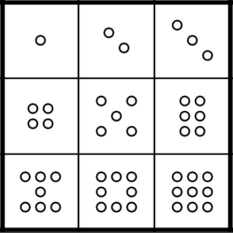
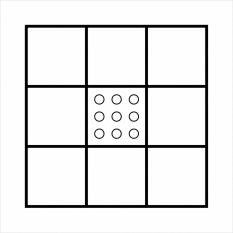
Add phantom dice drawing in UI.

Changed region(s): [[0.0, 0.0, 1.0, 1.0], [0.5107, 0.1803, 0.5708, 0.2403], [0.1502, 0.1502, 0.2103, 0.2103]]

diff --git a/src/Sudoku.Graphics.UI/MainWindow.xaml b/src/Sudoku.Graphics.UI/MainWindow.xaml
@@ -140,6 +140,30 @@
 				</c:ItemSelectorPanel>
 			</Border>
 		</Popup>
+		<Popup x:Name="PhantomDicePopup">
+			<Border Background="White" BorderBrush="Gray" BorderThickness="1" Padding="6">
+				<StackPanel>
+					<TextBlock
+						Text="{x:Static p:LocalizationResources.MainWindow_PhantomDiceSubgridSize}"
+						FontSize="18"
+						Margin="0,0,0,6" />
+					<c:IntegerBox
+						x:Name="PhantomDiceSubgridSizeBox"
+						Margin="0,0,0,6"
+						FontSize="18" />
+					<TextBlock
+						Text="{x:Static p:LocalizationResources.MainWindow_PhantomDiceStatesMatrix}"
+						FontSize="18"
+						Margin="0,0,0,6" />
+					<TextBlock
+						Text="{x:Static p:LocalizationResources.MainWindow_PhantomDiceStatesMatrix_Example}"
+						Foreground="DimGray"
+						Margin="0,0,0,6"
+						FontSize="18" />
+					<TextBox x:Name="PhantomDiceStatesMatrixBox" FontSize="18" />
+				</StackPanel>
+			</Border>
+		</Popup>
 		<!--#endregion-->
 
 		<!--

diff --git a/src/Sudoku.Graphics.UI/App.xaml b/src/Sudoku.Graphics.UI/App.xaml
@@ -19,6 +19,7 @@
 			</vm:ToolItemGroup>
 			<vm:ToolItemGroup Title="{x:Static p:LocalizationResources.ItemTypeGroup_CellMark}">
 				<vm:ToolItem ItemType="Cell_Dice" Icon="/Assets/ToolItems/ToolItem_Cell_Dice.png" />
+				<vm:ToolItem ItemType="Cell_PhantomDice" Icon="/Assets/ToolItems/ToolItem_Cell_PhantomDice.png" />
 				<vm:ToolItem ItemType="Cell_Tetris" Icon="/Assets/ToolItems/ToolItem_Cell_Tetris.png" />
 			</vm:ToolItemGroup>
 		</vm:ToolItemGroupCollection>

diff --git a/src/Sudoku.Graphics.UI/Properties/LocalizationResources.Designer.cs b/src/Sudoku.Graphics.UI/Properties/LocalizationResources.Designer.cs
@@ -61,6 +61,15 @@ namespace Sudoku.Graphics.UI.Properties {
         }
         
         /// <summary>
+        ///   Looks up a localized string similar to ,;，；、.
+        /// </summary>
+        public static string _ValidSeparators {
+            get {
+                return ResourceManager.GetString("_ValidSeparators", resourceCulture);
+            }
+        }
+        
+        /// <summary>
         ///   Looks up a localized string similar to Author:.
         /// </summary>
         public static string AboutWindow_Author {
@@ -304,11 +313,20 @@ namespace Sudoku.Graphics.UI.Properties {
         }
         
         /// <summary>
-        ///   Looks up a localized string similar to Dice.
+        ///   Looks up a localized string similar to Dice (Classic).
         /// </summary>
         public static string ItemType_Cell_Dice {
             get {
                 return ResourceManager.GetString("ItemType_Cell_Dice", resourceCulture);
+            }
+        }
+        
+        /// <summary>
+        ///   Looks up a localized string similar to Dice (Matrix).
+        /// </summary>
+        public static string ItemType_Cell_PhantomDice {
+            get {
+                return ResourceManager.GetString("ItemType_Cell_PhantomDice", resourceCulture);
             }
         }
         
@@ -471,6 +489,33 @@ namespace Sudoku.Graphics.UI.Properties {
         public static string MainWindow_MenuItem_Title {
             get {
                 return ResourceManager.GetString("MainWindow_MenuItem_Title", resourceCulture);
+            }
+        }
+        
+        /// <summary>
+        ///   Looks up a localized string similar to States (1 for on, 0 for off):.
+        /// </summary>
+        public static string MainWindow_PhantomDiceStatesMatrix {
+            get {
+                return ResourceManager.GetString("MainWindow_PhantomDiceStatesMatrix", resourceCulture);
+            }
+        }
+        
+        /// <summary>
+        ///   Looks up a localized string similar to Example: 1001,0110,0110,1001 (Commas may not be required).
+        /// </summary>
+        public static string MainWindow_PhantomDiceStatesMatrix_Example {
+            get {
+                return ResourceManager.GetString("MainWindow_PhantomDiceStatesMatrix_Example", resourceCulture);
+            }
+        }
+        
+        /// <summary>
+        ///   Looks up a localized string similar to Subgrid size of phantom dice dot matrix:.
+        /// </summary>
+        public static string MainWindow_PhantomDiceSubgridSize {
+            get {
+                return ResourceManager.GetString("MainWindow_PhantomDiceSubgridSize", resourceCulture);
             }
         }
         

diff --git a/src/Sudoku.Graphics.UI/OperationHandlers/PhantomDiceOperationHandler.cs b/src/Sudoku.Graphics.UI/OperationHandlers/PhantomDiceOperationHandler.cs
@@ -1,0 +1,96 @@
+namespace Sudoku.Graphics.UI.OperationHandlers;
+
+/// <summary>
+/// Represents an operation handler that produces <see cref="CellPhantomDiceMarkItem"/> instances.
+/// </summary>
+/// <seealso cref="CellPhantomDiceMarkItem"/>
+[OperationHandler(ItemType.Cell_PhantomDice)]
+public sealed class PhantomDiceOperationHandler : OperationHandler
+{
+	/// <inheritdoc/>
+	protected internal override void OnMouseButtonPressed(OperationHandlerContext context)
+	{
+	}
+
+	/// <inheritdoc/>
+	protected internal override void OnMouseButtonReleased(OperationHandlerContext context)
+	{
+		var popup = context.OwnerWindow.PhantomDicePopup;
+		popup.Tag = context;
+		popup.Closed += Popup_Closed;
+
+		popup.IsOpen = true;
+	}
+
+	/// <inheritdoc/>
+	protected internal override bool IsAvailable(OperationHandlerContext context)
+		=> context is
+		{
+			MouseEventArgs.ChangedButton: MouseButton.Right,
+			OwnerWindow.CurrentCanvas.Templates: [{ Mapper: { RowsCount: var rowsCount, ColumnsCount: var columnsCount } }]
+		}
+		&& rowsCount == columnsCount;
+
+	private void Popup_Closed(object? sender, EventArgs e)
+	{
+		if (sender is not Popup
+			{
+				Tag: OperationHandlerContext
+				{
+					OwnerWindow:
+					{
+						PhantomDiceSubgridSizeBox.Value: var subgridSize,
+						PhantomDiceStatesMatrixBox.Text: var statesString,
+						CurrentGrid.RowsCount: var gridSize
+					} window
+				} context
+			} popup)
+		{
+			return;
+		}
+
+		// Check state string.
+		var validSeparators = LocalizationResources._ValidSeparators;
+		var states = new BitArray(subgridSize * subgridSize);
+		for (var (i, index) = (0, 0); i < statesString.Length; i++)
+		{
+			var ch = statesString[i];
+			if (validSeparators.Contains(ch))
+			{
+				// Skip for separators.
+				continue;
+			}
+
+			var nullableState = ch switch { '1' => true, '0' => false, _ => (bool?)null };
+			if (nullableState is not { } state)
+			{
+				// Invalid characters encountered.
+				return;
+			}
+
+			// Set on-off state.
+			states[index++] = state;
+		}
+
+		var cell = context.GetCell();
+		var item = ItemsFactory.PhantomDice(cell, subgridSize, states);
+		UpdateItems(
+			window,
+			items =>
+			{
+				if (item is null)
+				{
+					items.Clear(cell, ItemType.Cell_PhantomDice);
+				}
+				else
+				{
+					items.Add(item);
+				}
+			}
+		);
+
+		// Clear context.
+		popup.Closed -= Popup_Closed;
+		popup.Tag = null;
+	}
+}

diff --git a/src/Sudoku.Graphics.UI/ItemsFactory.cs b/src/Sudoku.Graphics.UI/ItemsFactory.cs
@@ -77,4 +77,19 @@ public static class ItemsFactory
 			FillColor = ResolveProperty(() => App.UserPreferences.DiceFillColor),
 			SizeScale = ResolveProperty(() => App.UserPreferences.DiceSizeScale)
 		};
+
+	public static CellPhantomDiceMarkItem PhantomDice(Absolute cell, Relative subgridSize, BitArray states)
+		=> new()
+		{
+			TemplateIndex = 0,
+			Cell = cell,
+			SubgridSize = subgridSize,
+			States = states,
+			PhantomStrokeWidthScale = ResolveProperty(() => App.UserPreferences.DiceStrokeWidthScale),
+			CornerRadiusScale = ResolveProperty(() => App.UserPreferences.DiceCornerRadiusScale),
+			StrokeWidthScale = ResolveProperty(() => App.UserPreferences.DiceStrokeWidthScale),
+			StrokeColor = ResolveProperty(() => App.UserPreferences.DiceLineColor),
+			FillColor = ResolveProperty(() => App.UserPreferences.DiceFillColor),
+			SizeScale = ResolveProperty(() => App.UserPreferences.DiceSizeScale)
+		};
 }

diff --git a/src/Sudoku.Graphics.UI/Configuration/Preferences.default.cs b/src/Sudoku.Graphics.UI/Configuration/Preferences.default.cs
@@ -35,7 +35,7 @@ internal partial class Preferences
 	/// <summary>
 	/// Indicates default fill color.
 	/// </summary>
-	public Inherited<SerializableColor> DefaultFillColor { get; set; } = Inherited<SerializableColor>.FromValue(SKColors.White);
+	public Inherited<SerializableColor> DefaultFillColor { get; set; } = Inherited<SerializableColor>.FromValue(SKColors.Black);
 
 	/// <summary>
 	/// Indicates thick line colors.

diff --git a/src/Sudoku.Graphics.UI/Configuration/Preferences.fill.background.cs b/src/Sudoku.Graphics.UI/Configuration/Preferences.fill.background.cs
@@ -5,5 +5,5 @@ internal partial class Preferences
 	/// <summary>
 	/// Indicates background fill color.
 	/// </summary>
-	public Inherited<SerializableColor> BackgroundFillColor { get; set; } = Inherited<SerializableColor>.FromPropertyName(nameof(DefaultFillColor));
+	public Inherited<SerializableColor> BackgroundFillColor { get; set; } = Inherited<SerializableColor>.FromValue(SKColors.White);
 }

diff --git a/src/Sudoku.Graphics.UI/OperationHandlers/DiceOperationHandler.cs b/src/Sudoku.Graphics.UI/OperationHandlers/DiceOperationHandler.cs
@@ -24,6 +24,10 @@ public sealed class DiceOperationHandler : OperationHandler
 		}
 	}
 
+	/// <inheritdoc/>
+	protected internal override bool IsAvailable(OperationHandlerContext context)
+		=> context.MouseEventArgs.ChangedButton == MouseButton.Right;
+
 	private void Panel_SelectedItemChanged(ItemSelectorPanel sender, ItemSelectorPanelSelectedItemChangedEventArgs e)
 	{
 		if (e is not

diff --git a/src/Sudoku.Graphics.UI/OperationHandlers/OperationHandlerContext.cs b/src/Sudoku.Graphics.UI/OperationHandlers/OperationHandlerContext.cs
@@ -6,11 +6,6 @@
 public sealed class OperationHandlerContext
 {
 	/// <summary>
-	/// Provides an arbitrary value that can be used as interaction between mouse down and up events.
-	/// </summary>
-	public Optional State { get; set; }
-
-	/// <summary>
 	/// Indicates the mouse point pressed.
 	/// </summary>
 	public required Point PointPressed { get; init; }
